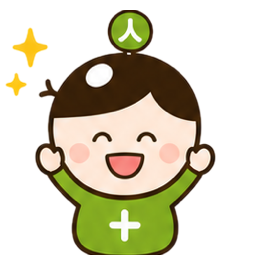
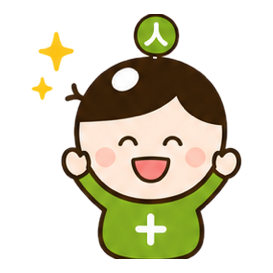
3体のベルる画像のフレーミングを統一し、キャラの大きさのばらつきを解消
各画像で切り出し範囲・余白がバラバラだったため、同じ68px枠に
表示した際に「完了！」だけ大きく「困り顔」が小さく見えていた。
非透過部分のbboxを検出して自動クロップ→全画像で同じ比率の
余白（6%）を付けて再生成することで、見た目のサイズを統一。

あわせて全参照箇所のキャッシュバスターを更新（?v=2, komarigaoのみ
既存v=2からv=3）。

なお、進捗バーのペースライン（黒い縦線）の位置は、同一データで
再現・ピクセル計測した結果、生活介護・就労B型とも数式上・描画上
完全に同じ%位置で正しく揃っていることを確認。見た目の「ずれ」は
キャラの大きさの違いによる錯覚だった可能性が高く、今回の
サイズ統一で解消されるはず。

diff --git a/index.html b/index.html
@@ -44,7 +44,7 @@ body{font-family:-apple-system,BlinkMacSystemFont,'Hiragino Sans',sans-serif;bac
 .task-info{flex:1;color:#333}
 .task-date{font-size:10px;color:#aaa;white-space:nowrap}
 .task-empty{text-align:center;padding:12px;color:#aaa;font-size:12px}
-.task-empty::before{content:'';display:block;width:32px;height:32px;margin:0 auto 6px;background:url('assets/beruru_komarigao.png?v=2') center/contain no-repeat}
+.task-empty::before{content:'';display:block;width:32px;height:32px;margin:0 auto 6px;background:url('assets/beruru_komarigao.png?v=3') center/contain no-repeat}
 /* お知らせ */
 .notice-card{background:#fff;border-radius:10px;box-shadow:0 1px 4px rgba(0,0,0,0.06);padding:14px 18px;margin-bottom:16px;border:1px solid #E8EAED}
 .notice-header{display:flex;justify-content:space-between;align-items:center;margin-bottom:10px}
@@ -56,7 +56,7 @@ body{font-family:-apple-system,BlinkMacSystemFont,'Hiragino Sans',sans-serif;bac
 .notice-date{color:#aaa;white-space:nowrap;min-width:40px}
 .notice-text{color:#333;flex:1}
 .notice-empty{text-align:center;padding:16px;color:#aaa;font-size:12px}
-.notice-empty::before{content:'';display:block;width:32px;height:32px;margin:0 auto 6px;background:url('assets/beruru_komarigao.png?v=2') center/contain no-repeat}
+.notice-empty::before{content:'';display:block;width:32px;height:32px;margin:0 auto 6px;background:url('assets/beruru_komarigao.png?v=3') center/contain no-repeat}
 /* メニューグリッド */
 .section-label{font-size:11px;color:#999;font-weight:600;margin-bottom:8px;padding-left:2px;letter-spacing:0.5px;text-transform:uppercase}
 .menu-grid{display:grid;grid-template-columns:repeat(2,1fr);gap:10px;margin-bottom:16px}
@@ -84,7 +84,7 @@ body{font-family:-apple-system,BlinkMacSystemFont,'Hiragino Sans',sans-serif;bac
 .dash-nav-btn:active{background:#e0e0e0}
 .dash-month-label{font-size:14px;font-weight:600;color:#333}
 .dash-loading{text-align:center;padding:16px;color:#aaa;font-size:12px}
-.dash-loading::before{content:'';display:block;width:32px;height:32px;margin:0 auto 6px;background:url('assets/beruru_nikoniko.png') center/contain no-repeat;animation:beruru-bounce 1.2s ease-in-out infinite}
+.dash-loading::before{content:'';display:block;width:32px;height:32px;margin:0 auto 6px;background:url('assets/beruru_nikoniko.png?v=2') center/contain no-repeat;animation:beruru-bounce 1.2s ease-in-out infinite}
 @keyframes beruru-bounce{0%,100%{transform:translateY(0)}50%{transform:translateY(-6px)}}
 .dash-dept-header{display:flex;align-items:center;gap:6px;padding:10px 14px;cursor:pointer;background:#F0FAF6;border-bottom:1px solid #E0F5ED;-webkit-tap-highlight-color:transparent;user-select:none}
 .dash-dept-header:active{background:#e4f7ef}

diff --git a/daily.html b/daily.html
@@ -169,7 +169,7 @@ textarea:focus{border-color:#1D9E75}
 .monthly-cat-summary-lbl{font-size:12px;color:#185FA5;font-weight:600}
 .monthly-cat-summary-num{font-size:15px;font-weight:700;color:#185FA5}
 .loading{text-align:center;padding:20px;color:#888;font-size:13px}
-.loading::before{content:'';display:block;width:40px;height:40px;margin:0 auto 6px;background:url('assets/beruru_nikoniko.png') center/contain no-repeat;animation:beruru-bounce 1.2s ease-in-out infinite}
+.loading::before{content:'';display:block;width:40px;height:40px;margin:0 auto 6px;background:url('assets/beruru_nikoniko.png?v=2') center/contain no-repeat;animation:beruru-bounce 1.2s ease-in-out infinite}
 @keyframes beruru-bounce{0%,100%{transform:translateY(0)}50%{transform:translateY(-6px)}}
 .conn-status{font-size:11px;text-align:center;padding:4px;margin-bottom:8px;border-radius:6px}
 .conn-ok{background:#d4f4e8;color:#0F6E56}
@@ -516,7 +516,7 @@ textarea:focus{border-color:#1D9E75}
 <div class="toast" id="toast"></div>
 <div class="celebrate-overlay" id="celebrate-overlay" onclick="closeCelebrate()">
   <div class="celebrate-box">
-    <img src="assets/beruru_kanryo.png" class="celebrate-icon" alt="">
+    <img src="assets/beruru_kanryo.png?v=2" class="celebrate-icon" alt="">
     <div class="celebrate-msg" id="celebrate-msg"></div>
   </div>
 </div>
@@ -1188,7 +1188,7 @@ function applyPaceDisplay(prefix, office, mt){
   }
   const mood=document.getElementById(prefix+'mood-icon');
   if(mood){
-    mood.src = diff>0 ? 'assets/beruru_kanryo.png' : diff===0 ? 'assets/beruru_nikoniko.png' : 'assets/beruru_komarigao.png?v=2';
+    mood.src = diff>0 ? 'assets/beruru_kanryo.png?v=2' : diff===0 ? 'assets/beruru_nikoniko.png?v=2' : 'assets/beruru_komarigao.png?v=3';
     mood.style.display='block';
     mood.classList.remove('pop');
     void mood.offsetWidth; // reflow でアニメーションを再トリガー

diff --git a/mirai-todo.html b/mirai-todo.html
@@ -94,9 +94,9 @@ textarea.prog-textarea:focus{outline:none;border-color:#2563EB}
 .btn-cancel{padding:8px 16px;border:1px solid var(--border);border-radius:8px;background:#fff;font-family:inherit;font-size:13px;cursor:pointer}
 .btn-save{padding:8px 20px;background:#2563EB;color:#fff;border:none;border-radius:8px;font-family:inherit;font-size:13px;font-weight:700;cursor:pointer}
 .empty{text-align:center;padding:40px 20px;color:var(--light);font-size:13px}
-.empty::before{content:'';display:block;width:48px;height:48px;margin:0 auto 8px;background:url('assets/beruru_komarigao.png?v=2') center/contain no-repeat}
+.empty::before{content:'';display:block;width:48px;height:48px;margin:0 auto 8px;background:url('assets/beruru_komarigao.png?v=3') center/contain no-repeat}
 .loading{text-align:center;padding:40px;color:var(--light)}
-.loading::before{content:'';display:block;width:48px;height:48px;margin:0 auto 8px;background:url('assets/beruru_nikoniko.png') center/contain no-repeat;animation:beruru-bounce 1.2s ease-in-out infinite}
+.loading::before{content:'';display:block;width:48px;height:48px;margin:0 auto 8px;background:url('assets/beruru_nikoniko.png?v=2') center/contain no-repeat;animation:beruru-bounce 1.2s ease-in-out infinite}
 @keyframes beruru-bounce{0%,100%{transform:translateY(0)}50%{transform:translateY(-6px)}}
 /* toast */
 #toast{position:fixed;bottom:24px;left:50%;transform:translateX(-50%) translateY(80px);background:#333;color:#fff;padding:11px 22px;border-radius:24px;font-size:13px;font-weight:600;opacity:0;transition:all .25s;z-index:300;pointer-events:none;white-space:nowrap}

diff --git a/morning-report.html b/morning-report.html
@@ -122,9 +122,9 @@ body{font-family:-apple-system,BlinkMacSystemFont,'Hiragino Sans',sans-serif;bac
 
 /* ===== 共通 ===== */
 .no-data{text-align:center;padding:24px;color:#aaa;font-size:13px}
-.no-data::before{content:'';display:block;width:44px;height:44px;margin:0 auto 8px;background:url('assets/beruru_komarigao.png?v=2') center/contain no-repeat}
+.no-data::before{content:'';display:block;width:44px;height:44px;margin:0 auto 8px;background:url('assets/beruru_komarigao.png?v=3') center/contain no-repeat}
 .loading{text-align:center;padding:24px;color:#888;font-size:13px}
-.loading::before{content:'';display:block;width:44px;height:44px;margin:0 auto 8px;background:url('assets/beruru_nikoniko.png') center/contain no-repeat;animation:beruru-bounce 1.2s ease-in-out infinite}
+.loading::before{content:'';display:block;width:44px;height:44px;margin:0 auto 8px;background:url('assets/beruru_nikoniko.png?v=2') center/contain no-repeat;animation:beruru-bounce 1.2s ease-in-out infinite}
 @keyframes beruru-bounce{0%,100%{transform:translateY(0)}50%{transform:translateY(-6px)}}
 .toast{position:fixed;bottom:calc(24px + env(safe-area-inset-bottom));left:50%;transform:translateX(-50%);background:#333;color:#fff;padding:10px 24px;border-radius:20px;font-size:14px;opacity:0;transition:opacity 0.3s;pointer-events:none;z-index:999;white-space:nowrap}
 .toast.show{opacity:1}

diff --git a/invoice.html b/invoice.html
@@ -58,9 +58,9 @@ table.detail-table thead td{background:#fafafa;font-weight:700;color:#333;font-s
 .total-row .label{color:#555}
 .total-row .amount{color:#1D6E3E;font-size:16px}
 .empty-msg{text-align:center;padding:40px;color:#aaa;font-size:14px}
-.empty-msg::before{content:'';display:block;width:48px;height:48px;margin:0 auto 8px;background:url('assets/beruru_komarigao.png?v=2') center/contain no-repeat}
+.empty-msg::before{content:'';display:block;width:48px;height:48px;margin:0 auto 8px;background:url('assets/beruru_komarigao.png?v=3') center/contain no-repeat}
 .loading{text-align:center;padding:40px;color:#888;font-size:14px}
-.loading::before{content:'';display:block;width:48px;height:48px;margin:0 auto 8px;background:url('assets/beruru_nikoniko.png') center/contain no-repeat;animation:beruru-bounce 1.2s ease-in-out infinite}
+.loading::before{content:'';display:block;width:48px;height:48px;margin:0 auto 8px;background:url('assets/beruru_nikoniko.png?v=2') center/contain no-repeat;animation:beruru-bounce 1.2s ease-in-out infinite}
 @keyframes beruru-bounce{0%,100%{transform:translateY(0)}50%{transform:translateY(-6px)}}
 </style>
 </head>

diff --git a/settings.html b/settings.html
@@ -72,7 +72,7 @@ body{font-family:-apple-system,BlinkMacSystemFont,'Hiragino Sans','Yu Gothic UI'
 .error-bar{background:#fdecea;color:#A32D2D;font-size:12px;padding:8px 14px;border-radius:6px;margin-bottom:14px;display:none}
 /* 空状態 */
 .empty{text-align:center;padding:32px;color:#aaa;font-size:13px}
-.empty:not(.cal-day)::before{content:'';display:block;width:44px;height:44px;margin:0 auto 8px;background:url('assets/beruru_komarigao.png?v=2') center/contain no-repeat}
+.empty:not(.cal-day)::before{content:'';display:block;width:44px;height:44px;margin:0 auto 8px;background:url('assets/beruru_komarigao.png?v=3') center/contain no-repeat}
 /* 単価テーブル特別スタイル */
 .price-input{width:120px;padding:6px 8px;border:1px solid #ddd;border-radius:5px;font-size:13px;font-family:inherit;text-align:right}
 .price-input:focus{outline:none;border-color:#1D9E75}

diff --git a/report.html b/report.html
@@ -73,7 +73,7 @@ th{background:#f5f5f5;text-align:center;font-weight:500;color:#555}
 .svc-other{background:#f5f5f5;color:#555}
 .tr-svc-total td{background:#f8fbff !important}
 .loading{text-align:center;padding:60px;color:#aaa;font-size:14px}
-.loading::before{content:'';display:block;width:56px;height:56px;margin:0 auto 10px;background:url('assets/beruru_nikoniko.png') center/contain no-repeat;animation:beruru-bounce 1.2s ease-in-out infinite}
+.loading::before{content:'';display:block;width:56px;height:56px;margin:0 auto 10px;background:url('assets/beruru_nikoniko.png?v=2') center/contain no-repeat;animation:beruru-bounce 1.2s ease-in-out infinite}
 @keyframes beruru-bounce{0%,100%{transform:translateY(0)}50%{transform:translateY(-6px)}}
 /* ===== エリア集計表 ===== */
 .area-section{margin-bottom:28px}

diff --git a/login.html b/login.html
@@ -28,7 +28,7 @@ body{font-family:-apple-system,BlinkMacSystemFont,'Hiragino Sans','Yu Gothic UI'
 .error-msg.show{display:block}
 .loading-msg{text-align:center;font-size:12px;color:#999;margin-top:12px;display:none}
 .loading-msg.show{display:block}
-.loading-msg::before{content:'';display:block;width:28px;height:28px;margin:0 auto 4px;background:url('assets/beruru_nikoniko.png') center/contain no-repeat;animation:beruru-bounce 1.2s ease-in-out infinite}
+.loading-msg::before{content:'';display:block;width:28px;height:28px;margin:0 auto 4px;background:url('assets/beruru_nikoniko.png?v=2') center/contain no-repeat;animation:beruru-bounce 1.2s ease-in-out infinite}
 @keyframes beruru-bounce{0%,100%{transform:translateY(0)}50%{transform:translateY(-6px)}}
 </style>
 </head>

diff --git a/monthly.html b/monthly.html
@@ -154,7 +154,7 @@ th:last-child,td:last-child{border-right:none}
 
 /* ===== ローディング ===== */
 .loading{text-align:center;padding:60px;color:#aaa;font-size:14px}
-.loading::before{content:'';display:block;width:56px;height:56px;margin:0 auto 10px;background:url('assets/beruru_nikoniko.png') center/contain no-repeat;animation:beruru-bounce 1.2s ease-in-out infinite}
+.loading::before{content:'';display:block;width:56px;height:56px;margin:0 auto 10px;background:url('assets/beruru_nikoniko.png?v=2') center/contain no-repeat;animation:beruru-bounce 1.2s ease-in-out infinite}
 @keyframes beruru-bounce{0%,100%{transform:translateY(0)}50%{transform:translateY(-6px)}}
 .tr-detail td{height:16px!important;padding:0 1px!important}
 .tr-detail .cell-inner{min-height:14px}
